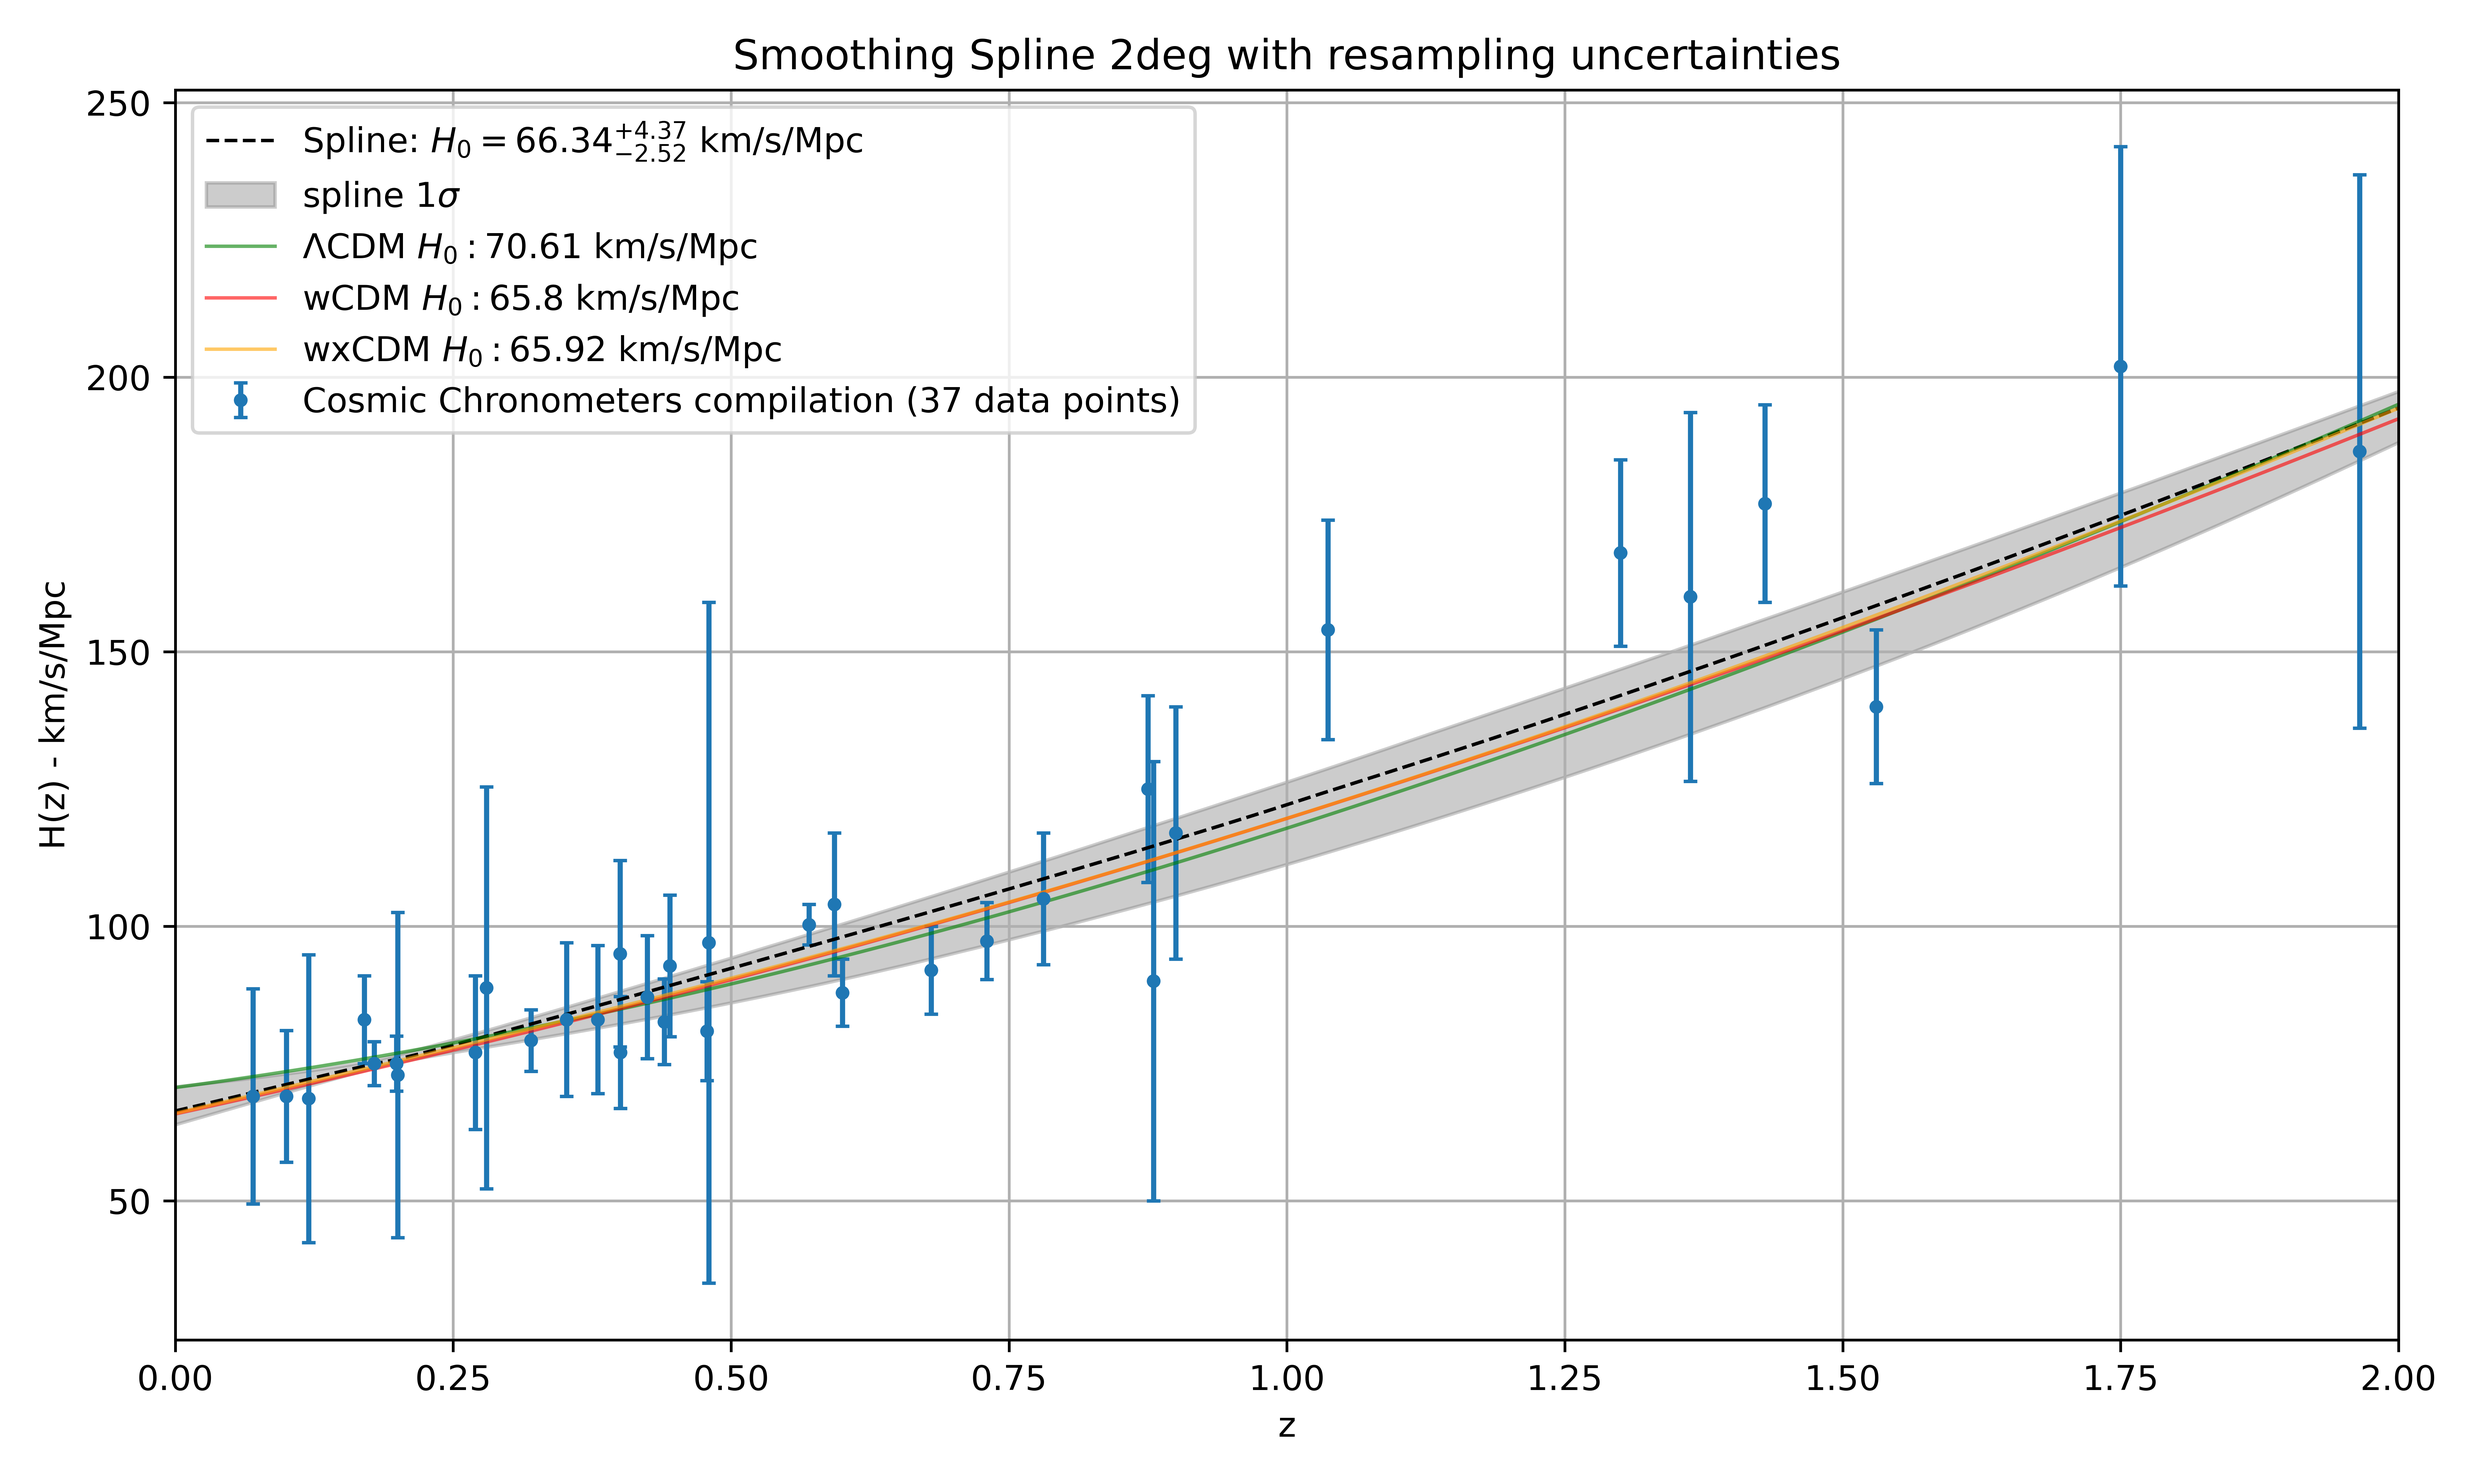
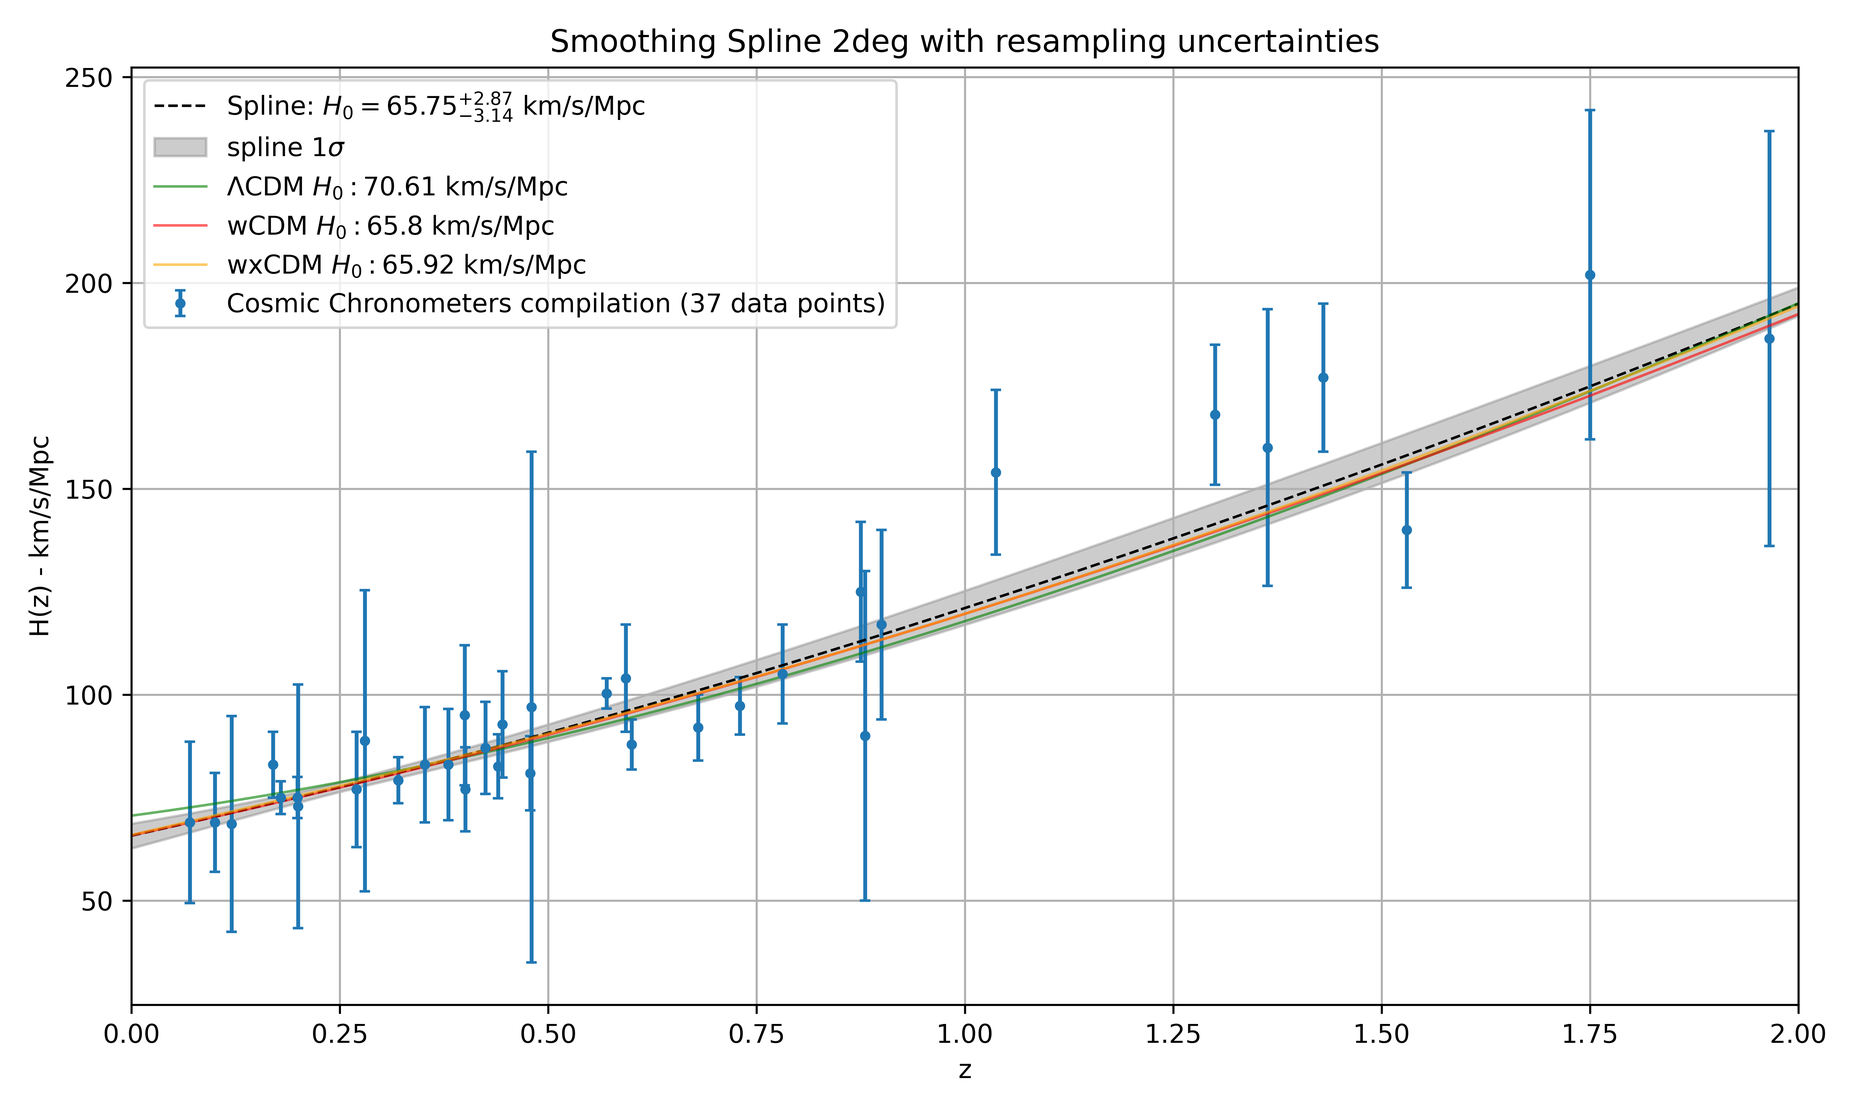
fixed weights

diff --git a/cosmic_chronometers/cc_spline.py b/cosmic_chronometers/cc_spline.py
@@ -55,7 +55,7 @@ def main():
         H_boot = H_boot[sort_idx]
         dH_boot = dH_boot[sort_idx]
 
-        spline_i = UnivariateSpline(z_boot, H_boot, w=1/dH_boot**2, k=2)
+        spline_i = UnivariateSpline(z_boot, H_boot, w=1/dH_boot, k=2, s=len(z_boot))
         H_fits[i] = spline_i(z_grid)
 
     H0_16, H0_50, H0_84 = np.percentile(H_fits, [15.9, 50, 84.1], axis=0)
@@ -77,7 +77,7 @@ def main():
     plt.grid(True)
     plt.legend()
     plt.tight_layout()
-    plt.savefig("cc_spline.png", dpi=800)
+    plt.savefig("cc_spline.png", dpi=600)
     plt.close()
 
 if __name__ == "__main__":
